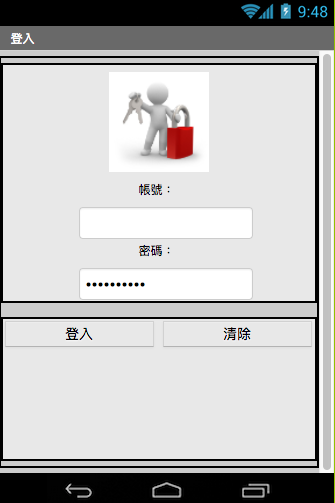
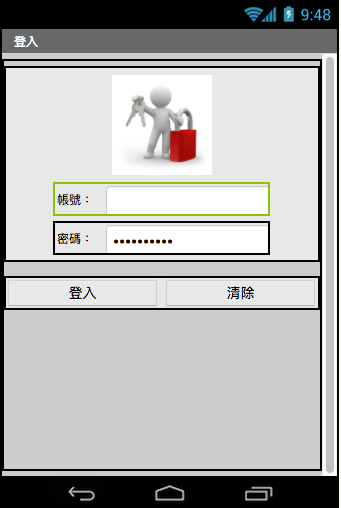
add login example image

diff --git a/login/README.md b/login/README.md
@@ -15,3 +15,8 @@
 
 * 畫面製作
 * 實作程式邏輯
+
+
+## 成果
+
+![](assets/emulator.png)
